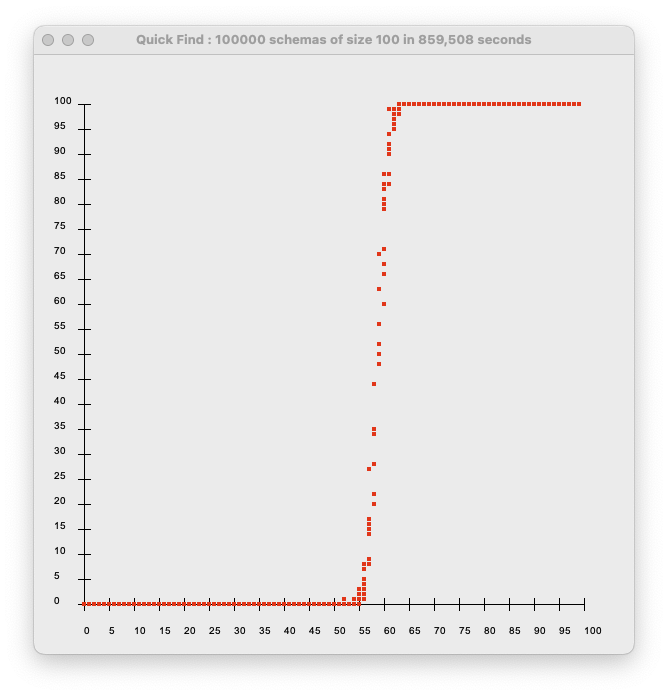
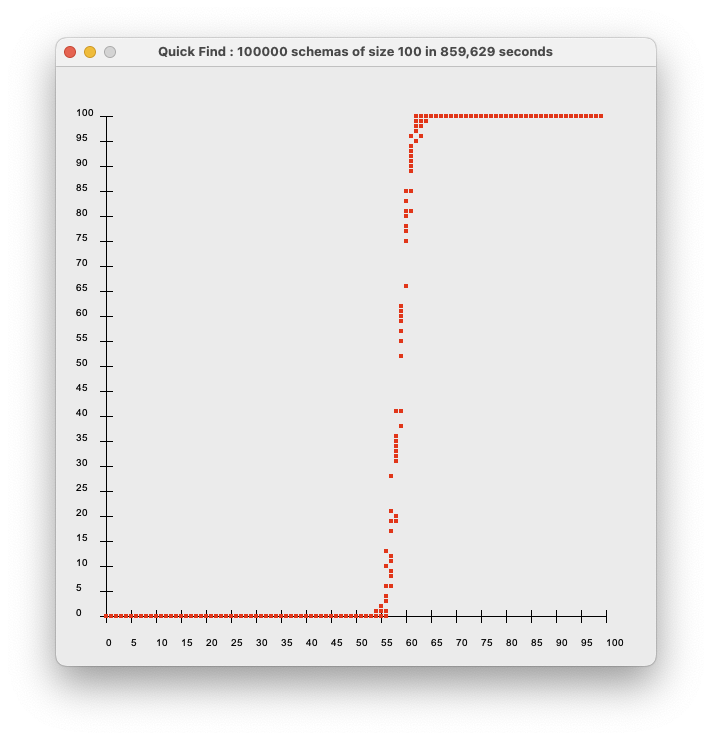
Percolation Problem

diff --git a/src/Main.java b/src/Main.java
@@ -10,7 +10,7 @@ import unionFind.WUPercolation;
 public class Main {
 
     public static void main(String[] args) {
-        int schemaSize = 10;
+        int schemaSize = 100;
         int schemaQuantity = 100; // For each vacancyP from 0.000 to 1 (1000 times)
         testSchemas(schemaQuantity, schemaSize, new QFPercolation(), "Quick Find");
         testSchemas(schemaQuantity, schemaSize, new QUPercolation(), "Quick Union");
